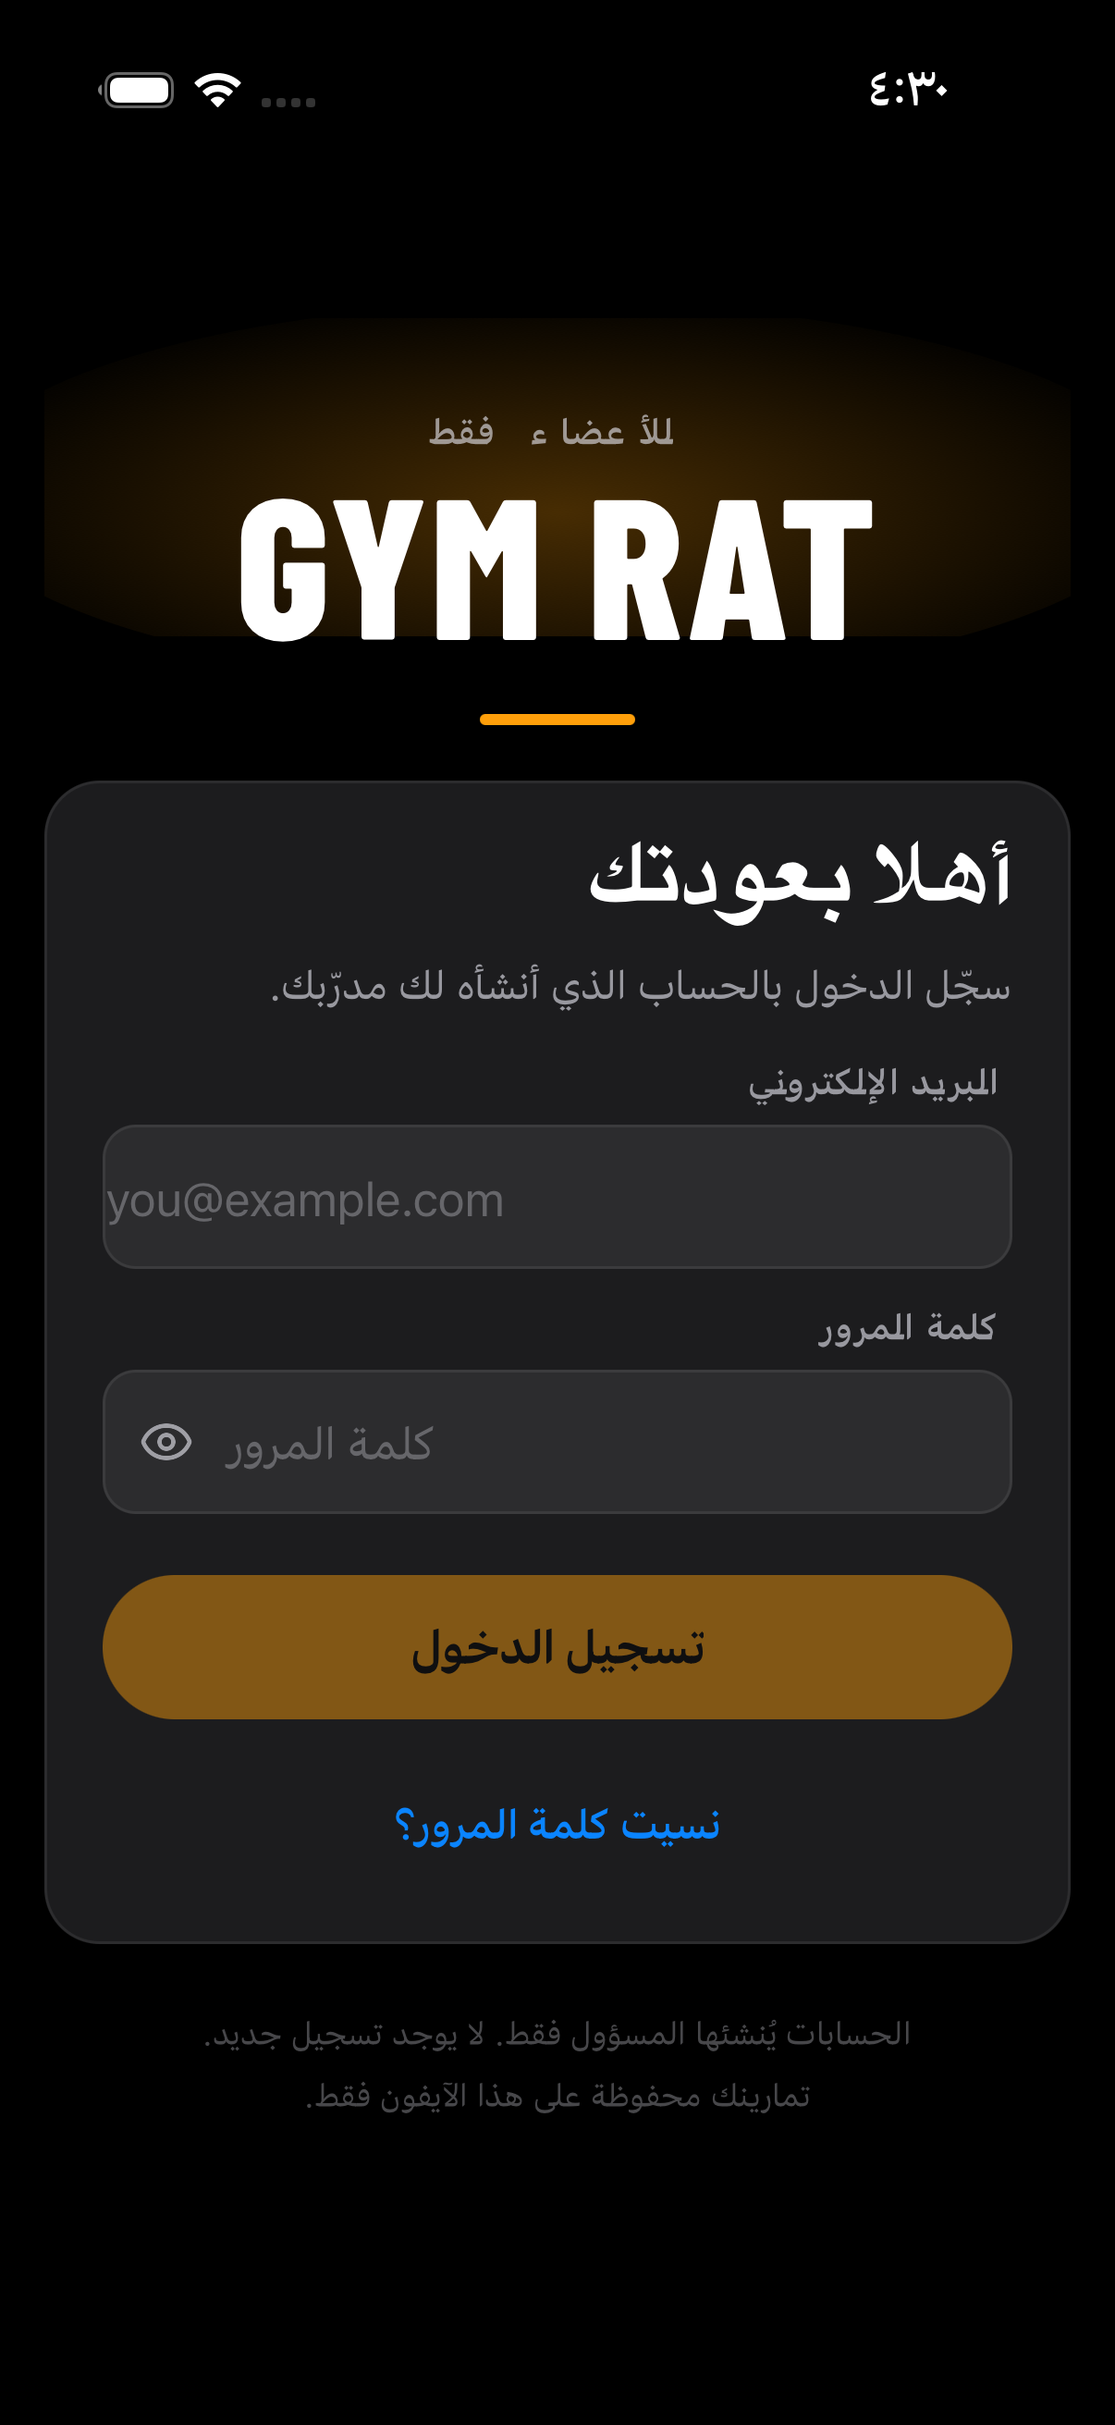
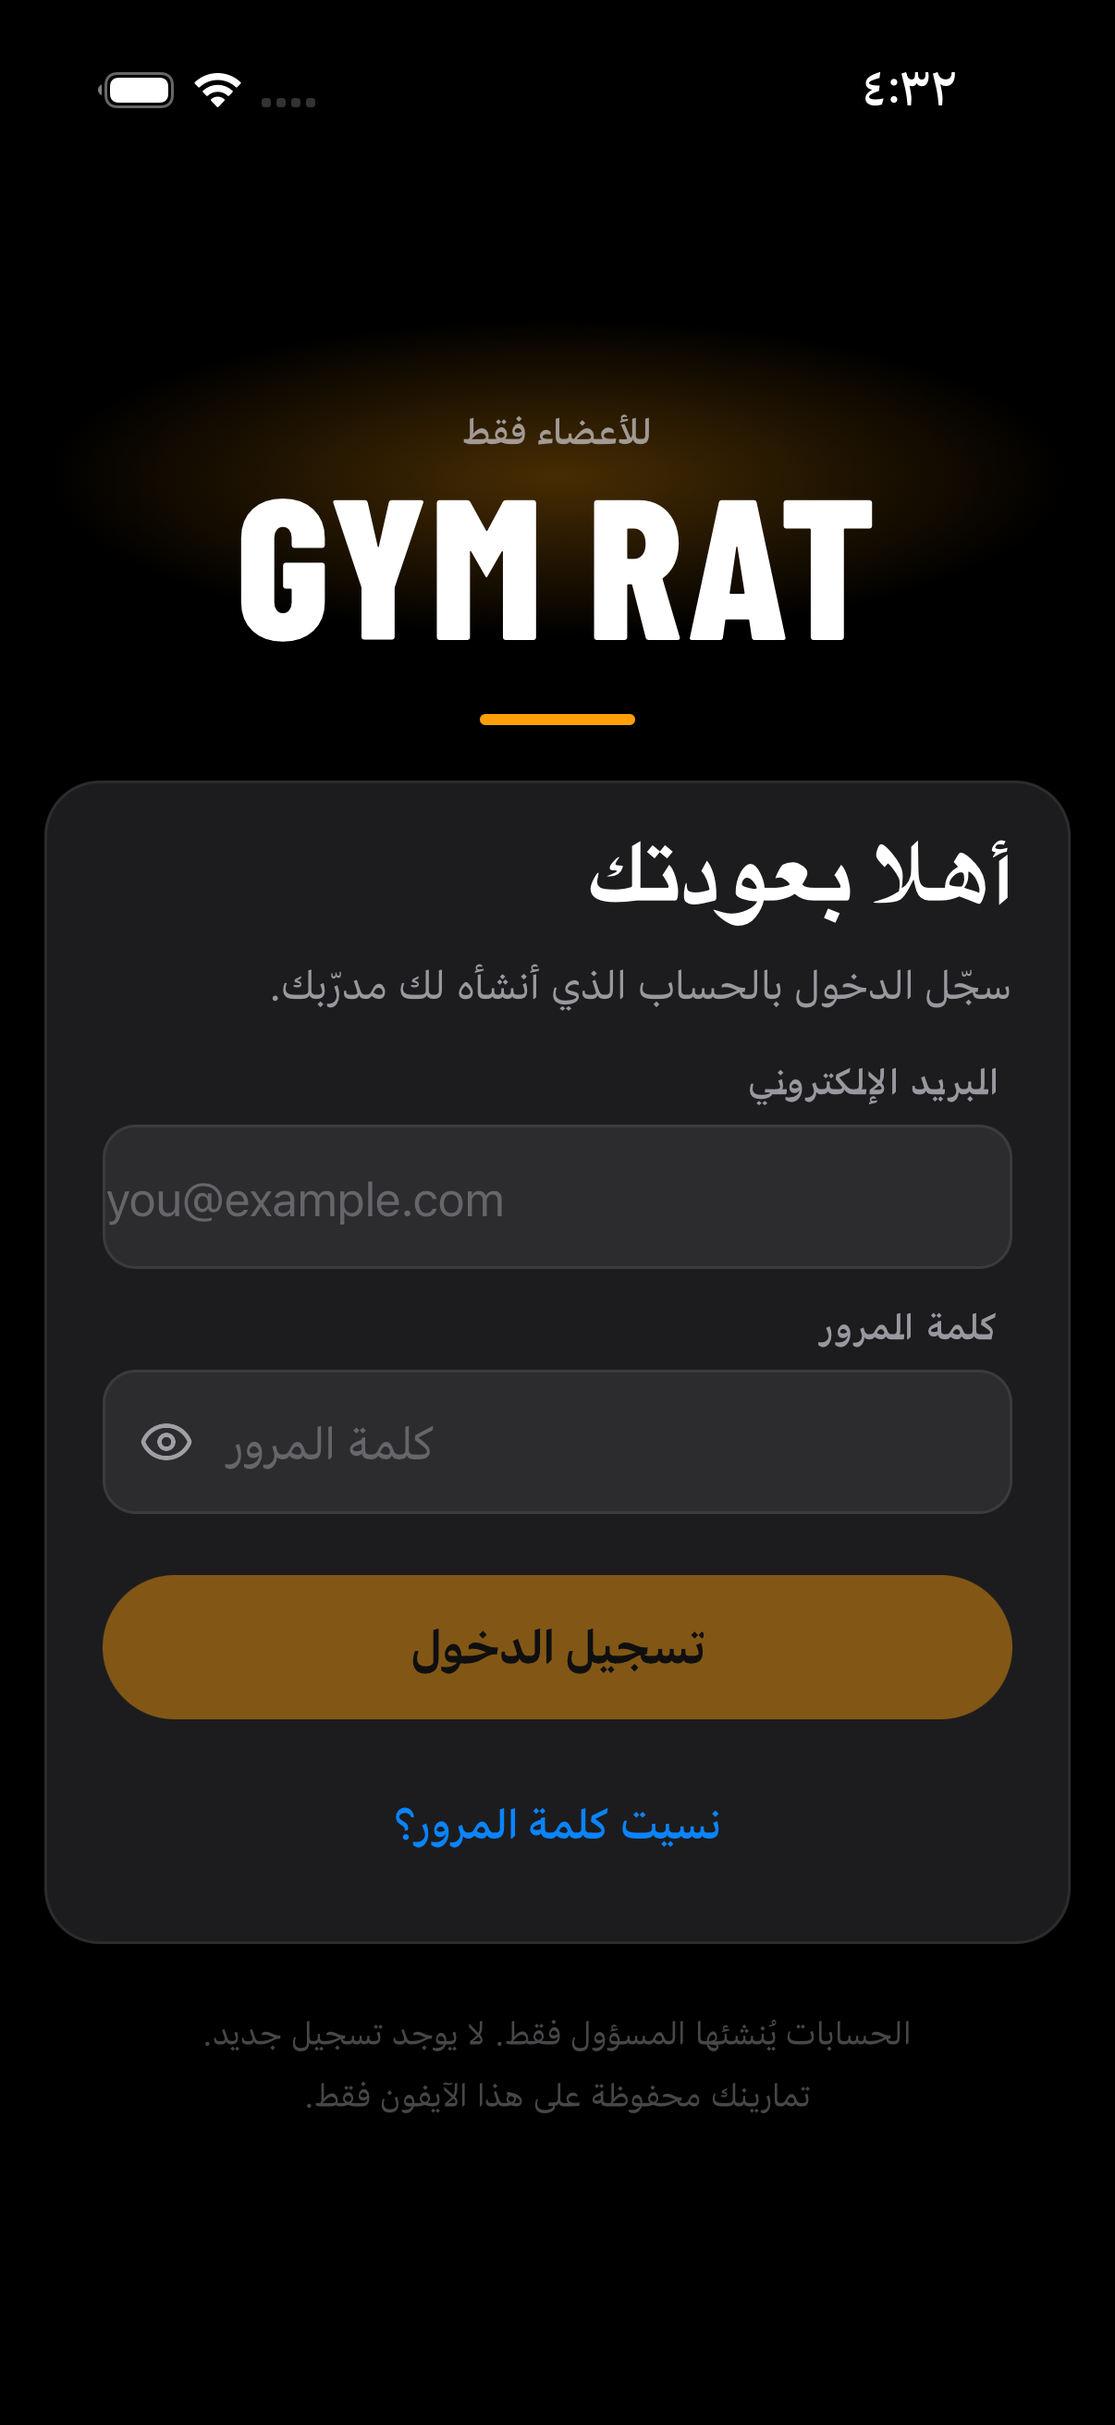
state(phase7): report, QA, security review, status and handoff

diff --git a/.10x/reviews/2026-11-02-phase7-report.md b/.10x/reviews/2026-11-02-phase7-report.md
@@ -1,0 +1,97 @@
+# Phase 7 report — Private members platform
+
+**Date:** 2026-11-02 · **Branch:** `feature/phase7-private-auth` (worktree `../Gym RAT-phase7`) · **Base:** `main @ 4a65663` (Phase 6 merged) · **Tip:** `3fb949c` · **Not merged, not pushed, nothing deployed, nothing uploaded to Apple.**
+**ADRs:** 015 (auth, sessions, offline lease, backend), 016 (per-account local data, legacy claim). **Spec:** `specs/2026-11-02-phase7-private-members-design.md`. **Security review:** `reviews/2026-11-02-phase7-security-review.md`. **QA:** `reviews/2026-11-02-phase7-qa-report.md`.
+
+## Parallel-session safety
+Inspected before touching anything: `main` already contained the Phase 6 merge (`4a65663`); `release/phase6-fixes` (`1b5db4a`, worktree `../Gym RAT-phase6`, dirty) belongs to the other session and was left alone, as were PID 30742 (`expo run:ios` on the main checkout), Metro on 8081 and the two booted simulators. This phase used a new worktree, branch, simulator `GymRAT-Phase7` (F0457793…), Next on port 3100, Postgres on 127.0.0.1:5433, and `release-artifacts/` for every build output.
+
+## Commits
+| Commit | What |
+|---|---|
+| `603d946` | App: sign-in / forgot / legacy-data screens, Keychain session manager, offline lease, per-account SQLite, Settings account section, 37 tests |
+| `64f4b3c` | Server: Drizzle schema + migration, Argon2id/jose/otpauth auth libs, member + admin API, 30 integration tests |
+| `7e7b215` | Server: vitest alias fix |
+| `e39542a` | Server: admin dashboard, public link pages, Docker/Compose/Caddy, backup scripts |
+| `e65a5c1` | Server: dev CSP, Turbopack root, audit labels; dashboard screenshots |
+| `3fb949c` | App: Arabic eyebrow, brand glow; state files, README, screenshots |
+259 files changed (+20 693 / −1 001), of which ~110 are the new `server/` application.
+
+## What was delivered (brief §12)
+1. **Premium iOS login** — `screens/auth/LoginScreen.tsx` (+ forgot password, legacy-data claim): Barlow Condensed wordmark with a radial accent glow, 52 pt fields with focus ring and inline errors, password toggle, loading spinner, keyboard-aware, remembered session, Arabic RTL, light / dark / true black, VoiceOver labels and live-region errors. No sign-up, no pricing.
+2. **Self-hosted auth API** — Next.js 16 route handlers under `server/src/app/api/auth/*` (login, refresh, me, logout, forgot-password, links/[token]).
+3. **PostgreSQL schema + migration** — `server/src/lib/db/schema.ts`, `server/drizzle/0000_init.sql` (8 tables), applied at container start.
+4. **Admin dashboard** — overview, members (search / filter / pagination), new member, member detail, security, audit log, settings; three themes; skeletons, empty states, confirm dialogs, toasts.
+5. **Provisioning + sessions** — create / rename / enable / disable / delete, invitation and reset links (one-time, hashed, emailed when SMTP is set, otherwise shown once), per-device and all-device revocation, forgot-password queue, admin TOTP with recovery codes, first-admin CLI.
+6. **Offline session handling** — 7-day server-issued lease, high-water-mark clock defence, revalidation on launch/foreground, graceful expiry wall, no data loss (18 tests).
+7. **Per-account local data** — `gymrat.u-<id>.db` per account, scoped photos, Health-safe teardown order, explicit legacy claim, "Remove my data" with confirmation (10 tests on real SQLite files).
+8. **Docker deployment** — `server/Dockerfile`, `docker-compose.yml` (Postgres + app + Caddy), `deploy/caddy/Caddyfile`, backup/restore scripts, `.env.example`, README with firewall/monitoring guidance.
+9. **Tests + screenshots** — see below and `reviews/phase7-screenshots/`.
+10. **Local IPA** — not produced; precise blocker below. Simulator Release build and unsigned device archive succeeded.
+11. **Security review** — `reviews/2026-11-02-phase7-security-review.md`.
+12. **Instructions** — `server/README.md` (local dev, VPS deploy, operations, API contract, manual-link guidance).
+
+## Test results
+| Check | Result |
+|---|---|
+| App Jest | 37 suites, **345 / 345** (37 new); 4 protected snapshots unchanged |
+| App `tsc` / `expo lint` / `expo-doctor` | 0 errors / clean / 20 / 20 |
+| Server Vitest (PGlite + real migration) | **30 / 30** (member auth 15, admin API 15) |
+| Server `tsc` / `eslint` / `next build` | 0 / clean / green (standalone output) |
+| Release simulator build (arm64, Xcode 27) | **BUILD SUCCEEDED** ×2 (`release-artifacts/simulator-release-build*.log`) |
+| Unsigned device archive | **ARCHIVE SUCCEEDED** → `release-artifacts/GymRAT-unsigned.xcarchive` (zip + `SHA256SUMS.txt`) |
+| Signed archive / IPA | **Blocked** (below) |
+| End-to-end | Dashboard: setup → TOTP enrol → create members → invite → activate. App (Release simulator): sign-in → onboarding → Today → Settings account → sign-out → relaunch restore; Arabic RTL in light + true black. Server audit shows every step. |
+
+## Screenshots (`reviews/phase7-screenshots/`)
+iOS: `ios-01-login-en`, `ios-02-login-filled`, `ios-04-today-after-login`, `ios-05-settings-account`, `ios-06-relaunch`, `ios-07-sign-out-confirm`, `ios-08-signed-out`, `ios-09-login-ar`, `ios-10-login-ar-true-black`. Admin: `admin-02-totp-enrol`, `admin-03-recovery-codes`, `admin-04-overview`, `admin-05-members`, `admin-06-member-detail` (with the simulator's device), `admin-07-security`, `admin-08-audit`, `admin-09-settings`, `admin-10-new-member`, `admin-11-members-light`, `admin-12-members-true-black`, `public-01-invitation`.
+
+## Backend startup (local)
+```bash
+cd server && npm install
+docker compose -f docker-compose.dev.yml up -d        # Postgres 127.0.0.1:5433 (already running, holds the demo data)
+npm run db:migrate && npm run bootstrap-admin -- --email you@example.com
+npm run dev                                           # http://localhost:3100
+```
+Demo data in the dev database: admin `owner@example.com` (TOTP enrolled; `npx tsx scripts/dev/totp-code.mts` prints the current code), member `nour@example.com` (active), five invited members. Test passwords are in the session scratchpad, not in the repo. Reset by `docker compose -f docker-compose.dev.yml down -v`.
+
+## VPS deployment requirements (owner)
+Linux VPS with Docker Engine + Compose v2; a domain with DNS A/AAAA at the VPS; ports 80/443 open; then `server/README.md` → "Production on a VPS". Secrets are generated on the server (`openssl rand`); nothing is to be pasted in chat. After deploy, bake `EXPO_PUBLIC_AUTH_API_URL=https://<domain>` into the app build.
+
+## Local IPA — signing ladder
+| Step | Result |
+|---|---|
+| Release simulator build | ✓ |
+| Unsigned archive (`CODE_SIGNING_ALLOWED=NO`) | ✓ `release-artifacts/GymRAT-unsigned.xcarchive` (bundle `com.gymrat.app` 1.0.0 (1), binary SHA-256 `f0bd5632…`, zip `dd5bcf65…`) |
+| Signed archive (team `8TBB6SU34J`, automatic, `-allowProvisioningUpdates`) | ✗ `release-artifacts/archive-signed.log`: **"PLA Update available: You currently don't have access to this membership resource. To resolve this issue, agree to the latest Program License Agreement in your developer account."** Consequently Xcode could not register `com.gymrat.app` / `com.gymrat.app.ExpoWidgetsTarget` with HealthKit, App Groups and Data Protection, and the wildcard team profile lacks those capabilities. |
+| Exported IPA | ✗ not attempted (no signed archive). **No IPA exists.** |
+| Physical device | ✗ none available |
+Team verified: the only "Apple Development" identity in the keychain is OU `8TBB6SU34J` (Mohamed Hosam, valid to 2027-03-17) and Xcode is signed in to that team. The two "Apple Distribution" identities belong to team `MZ5H52AJ5T` (another person) and were **not** used. No distribution certificate exists for `8TBB6SU34J`, so even after the PLA step the export method will be *development* (installable on registered devices), not ad-hoc/App Store, unless the owner creates one.
+
+**Owner action to unblock:** sign in at developer.apple.com → accept the updated Program License Agreement → re-run
+```bash
+cd "../Gym RAT-phase7" && xcodebuild -workspace ios/GymRAT.xcworkspace -scheme GymRAT -configuration Release -sdk iphoneos -destination 'generic/platform=iOS' -archivePath release-artifacts/GymRAT-signed.xcarchive -derivedDataPath release-artifacts/DerivedData-device -allowProvisioningUpdates DEVELOPMENT_TEAM=8TBB6SU34J CODE_SIGN_STYLE=Automatic archive
+xcodebuild -exportArchive -archivePath release-artifacts/GymRAT-signed.xcarchive -exportPath release-artifacts/ipa -exportOptionsPlist release-artifacts/ExportOptions-development.plist -allowProvisioningUpdates
+```
+(`ExportOptions-development.plist` is provided: method `development`, team `8TBB6SU34J`.) Set `EXPO_PUBLIC_AUTH_API_URL` to the production origin in `.env` before archiving; the archive built here has no server baked in (Release falls back to "no server configured").
+
+## Remaining owner-only actions
+1. Accept the Apple PLA; register devices; optionally create an Apple Distribution certificate for `8TBB6SU34J`.
+2. Provide the VPS, domain and DNS; run the README deployment; run `bootstrap-admin`; enrol TOTP; create members.
+3. Decide SMTP (optional) and review the manual-link guidance.
+4. Review Arabic copy (machine-written, as in earlier phases).
+5. Approve merge of `feature/phase7-private-auth` into `main` (not done).
+
+## Known limitations
+- Revocation reaches an offline phone only when it reconnects or when its lease (≤ 7 days) ends; the UI says so.
+- One admin password + TOTP; no WebAuthn. Admins are created only via CLI.
+- Rate limits are per IP (behind NAT, shared) and per IP+account; tune `LIMITS` after real use.
+- Dashboard responsiveness was built with breakpoints but not screenshot-verified at phone width.
+- Legacy photos referenced by a claimed database stay in the legacy folder (still displayed; not moved).
+- App Review: the app now requires an account with no in-app sign-up; Apple guideline 5.1.1 accepts this for private/enterprise-style apps when a demo account is supplied to the reviewer. Record this when a submission is planned (out of scope here).
+
+## Environment left behind
+- Worktree `../Gym RAT-phase7`, branch `feature/phase7-private-auth @ 3fb949c`; `main` untouched.
+- Docker container `gymrat-auth-dev-db-1` (Postgres on 127.0.0.1:5433) running with the demo data; Next dev server stopped.
+- Simulator `GymRAT-Phase7` (F0457793-D6F9-4BFA-B660-DF5BB8D8C8E1) booted, English, light, app signed out.
+- `release-artifacts/` (gitignored): simulator build logs, unsigned archive + zip + checksums, device DerivedData, `archive-signed.log`.

diff --git a/.10x/status.md b/.10x/status.md
@@ -2,6 +2,8 @@
 
 **Feature slug:** `transformation` (existing app → premium offline-first iOS workout tracker)
 **Spec:** `specs/2026-11-01-gym-rat-transformation-design.md` (Master Plan v3)
+**Phase 7 (2026-11-02):** private members platform on `feature/phase7-private-auth @ 3fb949c` (worktree `../Gym RAT-phase7`, ADR-015/016). Implemented and verified; not merged. Report `reviews/2026-11-02-phase7-report.md`. IPA blocked on the owner accepting Apple's updated PLA.
+
 **Current phase:** Integration complete — Phase 3 + Phase 4 merged into `main` at `e510460` (2026-11-02; ADR-012; report `reviews/2026-11-02-integration-report.md`). Phase 5 / TestFlight need explicit authorization. Phase 3 (Smart Training) authorized by owner 2026-11-02 and implemented (W1–W6, commits `644cd30`…`cd19cc9`; report `reviews/2026-11-02-phase3-report.md`, 168 tests). Phase 2 authorized 2026-11-01 and implemented (W1–W7, commits after `e2466f7`). Phase 1 authorized by owner ("start", 2026-11-01). ADR-001…009 Accepted (ADR-006: extracted program is an ordinary template; schema v3). **Phase 1 complete; Phase 2 implemented and simulator-verified 2026-11-01 (report: reviews/2026-11-01-phase2-report.md, 133 tests).** Simulator verification run 2026-11-01 (owner chose simulator over a physical iPhone): kill test 10/10, rotation advance/repeat, pause, Arabic RTL, theme, Reset All Data, reboot all passed; two defects found and fixed (Library search focus, dialog label truncation). Physical-device rows still pending. Awaiting (Appendix D checklist in reviews/2026-11-01-phase1-report.md) and independent review before Phase 2.
 
 ## Phase tracking
@@ -84,3 +86,16 @@ Owner decisions open: backup inclusion (keep recommended), D11 video list, EAS l
 | Release simulator build + lifecycle | Done (4 builds; Live Activity visuals unverified) |
 | Physical iPhone | Not run |
 | TestFlight | **NO-GO** — see report blockers |
+
+---
+## Phase 7 — Private members platform (branch `feature/phase7-private-auth`, base `4a65663`)
+**Authorized:** owner brief 2026-11-02 (execute without stopping). ADR-015, ADR-016. Slug `phase7-private-auth`. Not merged. Report: `reviews/2026-11-02-phase7-report.md`.
+| Item | Status |
+|---|---|
+| App: login / forgot / legacy claim, session manager, lease, per-account SQLite, Settings account | Done (`603d946`, `3fb949c`) |
+| Server: schema + migration, auth API, admin API, TOTP, rate limits, audit | Done (`64f4b3c`) |
+| Admin dashboard + public pages + Docker/Caddy/backups | Done (`e39542a`) |
+| Tests | Jest 345/345 (+37), Vitest 30/30, tsc ×2, lint ×2, doctor 20/20, Next build |
+| Release simulator build / unsigned archive | Done |
+| Signed archive / IPA | Blocked: Apple PLA must be accepted by the owner (`release-artifacts/archive-signed.log`) |
+| Physical iPhone | Not run |

diff --git a/.10x/decisions/qa/phase7-private-auth.md b/.10x/decisions/qa/phase7-private-auth.md
@@ -1,0 +1,7 @@
+# QA — phase7-private-auth
+**Automated:** app Jest 37 suites / 345 tests (37 new: `auth.session` 18, `auth.isolation` 10, `auth.screens` 9), 4 protected snapshots byte-identical; `tsc` 0; `expo lint` clean; `expo-doctor` 20/20. Server Vitest 30 tests on PGlite with the shipped migration; `tsc` 0; `eslint` clean; `next build` green.
+**Scenario coverage (brief §11):** login success/failure ✓ · disabled ✓ · missing/invalid sessions ✓ · refresh rotation + reuse ✓ · revocation (per device, all, admin) ✓ · password reset + invitation ✓ · admin-only authorization + member bearer refused ✓ · unauthorized API ✓ · brute force (per IP+account, per IP, TOTP) ✓ · account switching ✓ · local isolation ✓ · legacy migration (db + AsyncStorage, accept/decline) ✓ · offline grace ✓ · session expiry ✓ · force-quit + relaunch (unit: restore; manual: simulator) ✓ · existing workout features (308 prior tests + snapshots) ✓ · Arabic RTL + a11y labels (unit + simulator screenshot) ✓.
+**Manual (Release simulator build, GymRAT-Phase7, iPhone 17 Pro / iOS 26.3):** sign-in against the local server → onboarding → Today; Settings › Account shows lease and verification time; sign-out confirm keeps data; relaunch restores the session (`GET /api/auth/me 200`); Arabic RTL login in light and true black; dashboard shows the device and the audit trail.
+**Manual (dashboard, Chrome):** setup link → password → TOTP enrolment → recovery codes → overview, members, new member, detail, security, audit, settings, light / true-black themes.
+**Not run:** physical iPhone; dashboard at phone width (responsive classes present, not screenshot-verified); email delivery (no SMTP).
+**Bugs found and fixed during QA:** disabled Sign-in button swallowed validation taps (now always pressable); Arabic eyebrow broken by letter-spacing; brand glow clipped; Next dev CSP needed `unsafe-eval`; vitest/migrate paths with spaces.

diff --git a/.10x/handoff.md b/.10x/handoff.md
@@ -1,5 +1,9 @@
 # Handoff
 
+**2026-11-02 — Phase 7 private members platform** on `feature/phase7-private-auth @ 3fb949c` (worktree `../Gym RAT-phase7`). Read `reviews/2026-11-02-phase7-report.md`, ADR-015/016, `server/README.md`. Next, in order: owner accepts the Apple PLA and re-runs the archive/export commands in the report; owner provides VPS + domain and follows the README deploy; owner approves merge into `main` (then regenerate the main checkout's `ios/`, since `expo-secure-store` added a native module); physical-iPhone checklist. Do not merge, push, deploy or upload without the owner's word. Local demo stack: Postgres container on 5433 (running), `npm run dev` in `server/` for the dashboard, simulator `GymRAT-Phase7`.
+
+# Handoff
+
 **2026-11-02 — Phase 3 + Phase 4 integration** on `integration/phase3-phase4` (`reviews/2026-11-02-integration-report.md`, ADR-012). Schema v9 = 7 Phase 3 column, 8 Phase 4 tables, 9 reconcile; `migrate()` reconciles on every launch. One strength engine (`domain/records`) behind `domain/analytics/metrics`. Ten simulator scenarios performed with AXe (simulator-scoped input; no desktop mouse). Both feature branches and the Phase 4 worktree preserved; merged into `main`. Next: owner review; Phase 5 only on authorization; no TestFlight.
 
 **2026-11-02 — Phase 3 implemented and partly simulator-verified** (`reviews/2026-11-02-phase3-report.md`). Next: owner runs the checklist in §6 of that report, then authorizes Phase 4 (analytics) or Phase 5 (iOS integrations). Do not start either, or TestFlight, without the owner's word. Open: RPE/RIR entry UI, Arabic copy review, README, curated YouTube ids, Developer Mode on the iPhone, owner's own EAS login. Simulator driving: use `tap` only when the owner is not using the Mac; points = px × 874 / image height.

diff --git a/.10x/reviews/2026-11-02-phase7-qa-report.md b/.10x/reviews/2026-11-02-phase7-qa-report.md
@@ -1,0 +1,2 @@
+# Phase 7 QA report
+See `decisions/qa/phase7-private-auth.md` for the matrix. Summary: all automated gates green (Jest 345/345 + 4 snapshots, Vitest 30/30, tsc ×2, lint ×2, expo-doctor 20/20, Next production build, Release simulator build ×2, unsigned device archive). Manual flows verified on the Release simulator build and in Chrome; screenshots in `phase7-screenshots/`. Open: physical device, phone-width dashboard screenshot, SMTP path.
